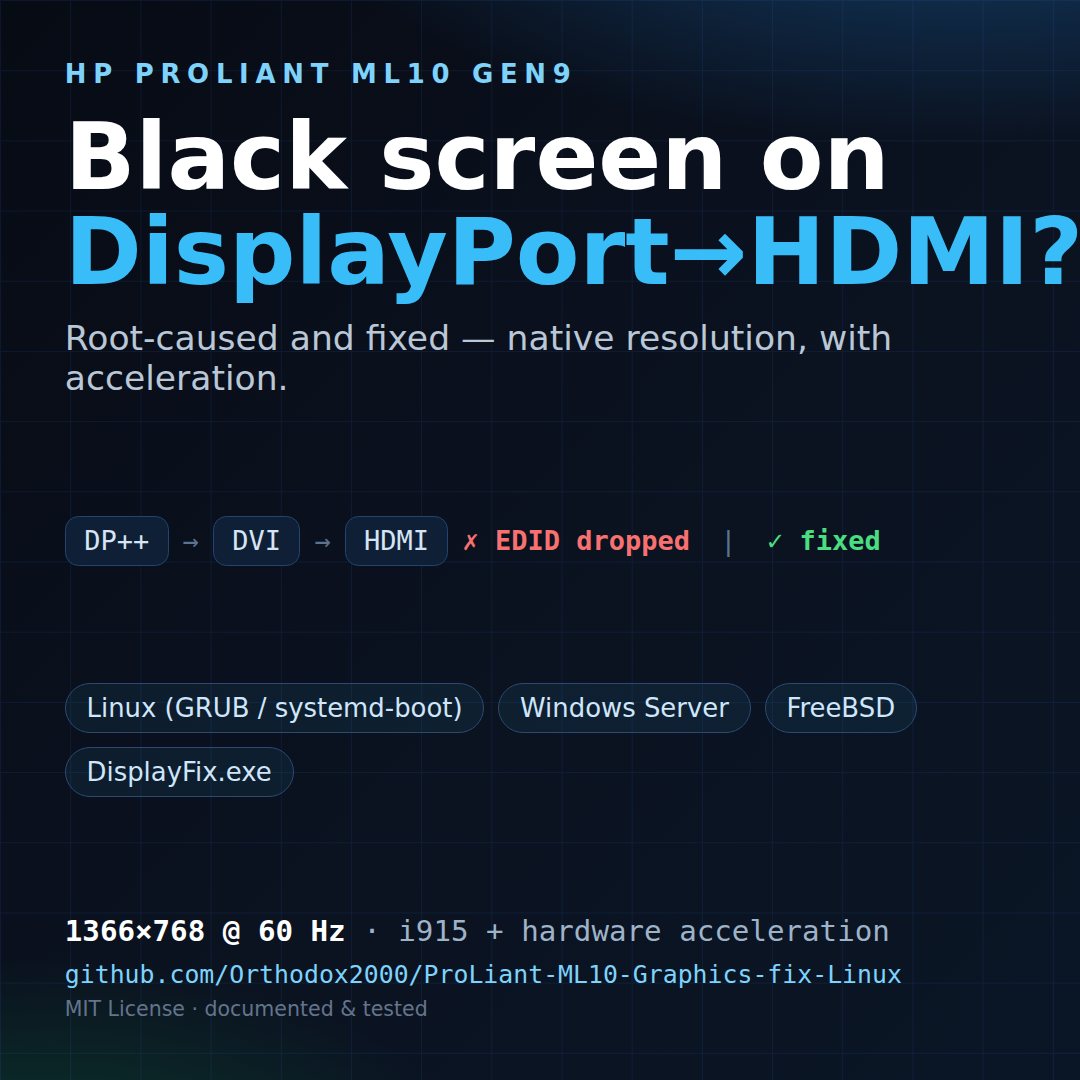
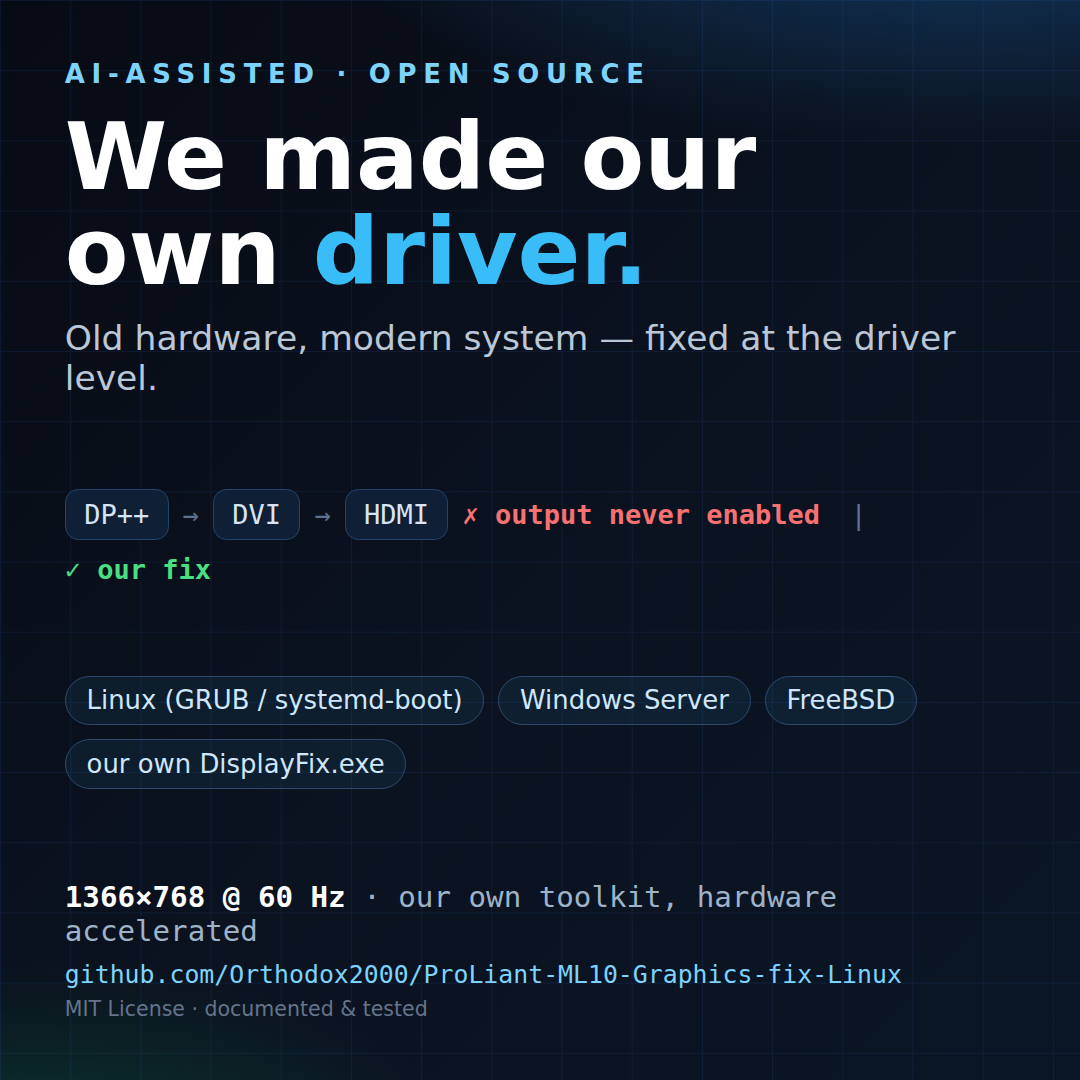
docs(social): reframe LinkedIn kit around AI-assisted DIY driver fix
- new angle: 'We made our own driver' (no vendor driver, symptom-first)
- drop CPU/GPU model as the primary identifier; lead with behaviour
- regenerate assets/linkedin/*.png with the new headline
- add full post structure, carousel outline, alt text and upload guide

diff --git a/docs/social/linkedin.md b/docs/social/linkedin.md
@@ -1,150 +1,207 @@
-# Social media kit — LinkedIn (and re-usable for X / Mastodon / Reddit)
+# Social media kit — LinkedIn (AI / “make your own driver” angle)
 
-Everything you need to announce the project. Copy/paste the text, upload the
-image, paste the repo link. Nothing else required.
+Everything you need to announce the project. Copy, paste, upload, done.
+Nothing else required.
 
-- **Landscape image (link preview / feed):** [`assets/linkedin/linkedin-1200x627.png`](../../assets/linkedin/linkedin-1200x627.png) — 1200×627
-- **Square image (feed post):** [`assets/linkedin/linkedin-1080x1080.png`](../../assets/linkedin/linkedin-1080x1080.png) — 1080×1080
+- **Landscape image (post / link preview):** [`assets/linkedin/linkedin-1200x627.png`](../../assets/linkedin/linkedin-1200x627.png) — 1200×627
+- **Square image (bigger feed visual):** [`assets/linkedin/linkedin-1080x1080.png`](../../assets/linkedin/linkedin-1080x1080.png) — 1080×1080
 - **Repo link:** https://github.com/Orthodox2000/ProLiant-ML10-Graphics-fix-Linux
 
-Regenerate the images any time with `make social` (or
-`bash scripts/doc/make-social.sh`).
+Regenerate the images any time with `make social`
+(or `bash scripts/doc/make-social.sh`).
+
+**The angle in one line:** *with AI you can now write your own driver-level fix,
+so old hardware keeps working on a modern OS — we did exactly that.*
 
 ---
 
-## TL;DR — what to upload and where
+## 1. Post structure (the anatomy)
 
-| Step | Where | What |
+Use this skeleton for any platform. Each block has a job.
+
+| # | Block | Job | Length |
+|---|---|---|---|
+| 1 | **Hook** | Stop the scroll. The AI/driver idea. | 1 line |
+| 2 | **Reframe** | Why this matters — “old hardware” vs disappearing vendor support. | 2–3 lines |
+| 3 | **Problem (by behaviour, not specs)** | Describe the *symptom*, never “CPU X is broken”. | 3–4 lines |
+| 4 | **The insight** | “This is a *driver* problem” — the aha that justifies building our own. | 3–4 lines |
+| 5 | **What we built** | Our own driver-level toolkit. Bullets + the key snippet. | 6–8 lines |
+| 6 | **Result** | One punchy line. Before → after. | 1 line |
+| 7 | **The bigger point** | Right-to-repair / e-waste / “we can now write the glue ourselves”. | 2–3 lines |
+| 8 | **CTA** | Repo link. | 1 line |
+| 9 | **Hashtags** | 8–12, mixed reach. | 1 line |
+
+**Formatting rules**
+- Lead with a bolded hook line; LinkedIn collapses after ~3 lines — make them count.
+- Short paragraphs (1–3 lines), single blank line between them.
+- **Bold** the section leads; 🔧🪟🐧📄 emoji as section markers (not decoration spam).
+- Put the link **once**, at the end. Put extra links in the first comment.
+- No CPU/GPU model as the identifier. Name the *behaviour* (“goes dark after POST”).
+
+---
+
+## 2. Post text (primary — the AI / DIY-driver angle)
+
+> 🧠 **With AI, you can now write your own drivers — and keep old hardware alive.**
+>
+> For years, “old hardware on a new system” meant hunting for a vendor driver that
+> no longer exists, or was never written for your OS. When support ends, you’re
+> stuck — unless you write the fix yourself.
+>
+> So we did.
+>
+> **The problem (by behaviour, not specs):**
+> A perfectly good small tower server. Add a monitor through a passive
+> **DP → DVI → HDMI** adapter chain, and it goes dark right after POST. The OS
+> loads, the machine is alive — there’s just no signal.
+>
+> The usual advice is `nomodeset`. It “works”… by giving up on the GPU entirely and
+> pinning you to a slow 1024×768 firmware framebuffer. That isn’t a fix, it’s
+> surrender.
+>
+> **The insight — this is a *driver* problem.**
+> The passive adapter **hides the monitor’s EDID**, so the graphics driver’s bus
+> read fails, it falls back to slow bit-banging, and the output is **never
+> enabled**. Second trap: two different connector names can be the *same* physical
+> port — try to force both and you get nothing.
+>
+> No vendor is going to ship a driver for a discontinued box on a modern kernel.
+> So we wrote the driver-level fix ourselves.
+>
+> **What we built — our own driver toolkit:**
+> 🔧 **Linux** — a portable toolkit for **GRUB *and* systemd-boot**:
+>   `status`, `detect`, `apply`, `discover`, `revert`. Non-destructive, timestamped
+>   backups, and a guaranteed recovery entry so you can never get stuck on a black
+>   screen. It does what a driver would — names the right connector, sets the exact
+>   mode, and switches off the power features that keep the output asleep:
+>
+> ```
+> video=<connector>:1366x768@60e i915.enable_dc=0 i915.enable_psr=0 i915.enable_fbc=0
+> ```
+>
+> 🪟 **Windows / Windows Server** — our own tooling, including a small
+>   **`DisplayFix.exe` we wrote and compiled** (source included; unsigned — audit it).
+> 🐧 **FreeBSD / TrueNAS / pfSense / Proxmox** — helpers for the same fix.
+> 📄 A **52-page write-up**, real screenshots, and full troubleshooting.
+>
+> **The result:**
+> The machine that showed *nothing* now runs at its **native 1366×768 @ 60 Hz,
+> hardware accelerated.** Old hardware, modern OS, working.
+>
+> **The real point:**
+> AI didn’t magically support the hardware — it let *us* do the driver-level work
+> that used to require a vendor: read the driver/kernel behaviour, find the exact
+> parameters, and ship a tool anyone can run. That’s the unlock. **Old hardware
+> gets a second life because we can now write the glue ourselves.** Less e-waste,
+> less “buy new”, more “make it work”.
+>
+> 🔗 Full write-up + toolkit:
+> https://github.com/Orthodox2000/ProLiant-ML10-Graphics-fix-Linux
+>
+> #AI #OpenSource #Linux #WindowsServer #FreeBSD #Drivers #Hardware #SysAdmin #Homelab #RightToRepair #Sustainability #DisplayPort
+
+---
+
+## 3. Short version (mobile / higher completion)
+
+> 🧠 **With AI, you can now make your own drivers — so old hardware keeps working
+> on a modern OS.**
+>
+> We had a perfectly good tower server that went **dark right after POST** through a
+> passive **DP → DVI → HDMI** chain. The adapter **hides the monitor’s EDID**, so the
+> graphics driver never enables the output. `nomodeset` only *pretends* to fix it
+> (1024×768, no acceleration).
+>
+> No vendor is shipping a driver for a discontinued box — so we wrote the fix
+> ourselves: a tiny toolkit that tells the driver the right connector, the exact
+> mode, and to stop sleeping.
+>
+> Result: **1366×768 @ 60 Hz, accelerated.** Old hardware, second life.
+>
+> Linux (GRUB + systemd-boot), Windows Server, and FreeBSD, with a safe recovery
+> entry so you can never get stuck. Full write-up + a 52-page PDF:
+>
+> 🔗 https://github.com/Orthodox2000/ProLiant-ML10-Graphics-fix-Linux
+>
+> #AI #OpenSource #Linux #Drivers #Hardware #SysAdmin #RightToRepair
+
+---
+
+## 4. Carousel format (optional — 6 slides)
+
+If you’d rather post a document/carousel, each slide maps to a block above:
+
+| Slide | Headline | Body |
 |---|---|---|
-| 1 | LinkedIn → **Start a post** ("Create post") | Paste the **Post text** below |
-| 2 | Same composer → **Add media / image icon** | Upload **`linkedin-1200x627.png`** (or the square for a bigger visual) |
-| 3 | In the post text, the repo URL | Leave it as plain text so LinkedIn builds a preview card (it uses the repo's **social preview** image automatically) |
-| 4 | After posting → **your first comment** | Paste the **First comment** text (keeps the post clean, boosts reach) |
-| 5 | (Optional) Your profile → **Add profile section → Featured → Add a link** | Repo link, title "HP ProLiant ML10 Gen9 display fix" |
-| 6 | (Optional) **Articles** → New article | Use **`docs/dist/ProLiant-ML10-Graphics-fix.pdf`** as the source |
-
-> ⚠ **Pick one image, not both.** If you paste the repo URL *and* upload an
-> image, LinkedIn shows your uploaded image (good). If you want the automatic
-> **link card** instead, just paste the URL and upload nothing.
+| 1 | **We made our own driver.** | AI-assisted. No vendor driver needed. |
+| 2 | **The problem** | A good server goes dark right after POST over DP → DVI → HDMI. |
+| 3 | **Why “nomodeset” isn’t a fix** | It abandons the GPU: 1024×768, no acceleration. Surrender. |
+| 4 | **The real cause** | The adapter hides the monitor’s EDID → the output is never enabled. |
+| 5 | **What we built** | Our own toolkit: Linux (GRUB/systemd-boot), Windows `.exe`, FreeBSD. |
+| 6 | **The result + link** | 1366×768 @ 60 Hz, accelerated. Repo link + QR. |
 
 ---
 
-## Post text (primary — "engineer, problem-solving" tone)
+## 5. First comment (post it yourself, right after publishing)
 
-> A brand new HPE ProLiant ML10 Gen9, and a monitor that just… stays black.
-> Here's the whole root cause — and the fix I wish existed last week. 🧵
+> For anyone with different gear: the method is the same — find the real connector
+> name (`ls /sys/class/drm`), set `video=<connector>:<mode>@60e`, and remember two
+> port names can be the *same* physical port. If nothing shows at all, boot with
+> `nomodeset` and run `scripts/linux/i915-display-fix.sh discover` — it prints the
+> exact line to add. `apply` always installs a recovery entry, so you can’t get stuck.
 >
-> **The setup:** ML10 Gen9, Intel HD Graphics P530 (Skylake), a 1366×768 monitor
-> on the motherboard's DisplayPort through a passive **DP → DVI → HDMI** chain.
->
-> **The symptom:** picture through BIOS/POST, then nothing. Adding `nomodeset`
-> "works" — but it just abandons the GPU and pins you to a 1024×768 firmware
-> framebuffer with zero acceleration. Not a fix.
->
-> **The root cause:** the passive adapter hides the monitor's **EDID**. The i915
-> driver's GMBUS read fails, falls back to slow GPIO bit-banging, and never
-> enables the output. There's a nasty second trap too: `DP-1` and `HDMI-A-1` are
-> the **same physical DP++ port** — try to force both and you get nothing.
->
-> **The fix:** drop `nomodeset`, hand the kernel the exact connector + mode, and
-> switch off a few Skylake power features:
->
-> ```
-> video=HDMI-A-1:1366x768@60e i915.enable_dc=0 \
-> i915.enable_psr=0 i915.enable_fbc=0 i915.enable_dp_mst=0
-> ```
->
-> **The result:** 1366×768 @ 60 Hz, i915 loaded, hardware accelerated. The screen
-> it was supposed to have all along.
->
-> I turned the whole investigation into a documented, reusable project:
->
-> 🔧 Portable **Linux toolkit** (GRUB **and** systemd-boot): `status`, `detect`,
->   `apply`, `discover`, `revert` — non-destructive, timestamped backups, and a
->   guaranteed `nomodeset` **recovery entry** so you can never end up with a
->   black screen you can't undo.
-> 🪟 **Windows + Windows Server** guide and tooling, including a tiny
->   **DisplayFix.exe** (source included, unsigned — audit and rebuild it if you
->   prefer).
-> 🐧 **FreeBSD** helper, plus hardware / cable / adapter guidance (active vs
->   passive DP adapters, KVMs, alternate outputs).
-> 📄 A **52-page PDF**, real terminal screenshots, per-distro notes, and full
->   troubleshooting.
->
-> If you've fought a "DP works on paper, black on screen" server, this one's for
-> you. Feedback, other boards/distros, and PRs welcome.
->
-> 🔗 https://github.com/Orthodox2000/ProLiant-ML10-Graphics-fix-Linux
->
-> #Linux #WindowsServer #Hardware #SysAdmin #OpenSource #Intel #HPE #ProLiant #i915 #Troubleshooting #DisplayPort
+> (Windows Server folks: `docs/06-windows-server.md`. Cable/adapter questions:
+> `docs/08-hardware-cables-adapters.md`.)
 
 ---
 
-## Post text (short — better for mobile / higher completion rate)
+## 6. Alt text (paste into the image’s “alt text” field)
 
-> Spent longer than I'd like on a **black screen** from a brand-new HPE ProLiant
-> ML10 Gen9 over DisplayPort→HDMI. The cause wasn't the monitor or the cable — a
-> **passive DP→DVI→HDMI adapter hides the monitor's EDID**, so the Intel i915
-> driver never enables the output. `nomodeset` only *pretends* to fix it (1024×768,
-> no acceleration).
->
-> The real fix, on the kernel command line:
->
-> ```
-> video=HDMI-A-1:1366x768@60e i915.enable_dc=0 i915.enable_psr=0 i915.enable_fbc=0
-> ```
->
-> Result: **1366×768 @ 60 Hz, accelerated.**
->
-> I wrote the whole thing up — Linux toolkit (GRUB + systemd-boot, with a safe
-> recovery entry), Windows Server tools, FreeBSD, cable/adapter guidance, and a
-> 52-page PDF.
->
-> 🔗 https://github.com/Orthodox2000/ProLiant-ML10-Graphics-fix-Linux
->
-> #Linux #WindowsServer #SysAdmin #Hardware #OpenSource #i915 #ProLiant
+> Dark title card reading “We made our own driver.” with the subtitle “Old hardware,
+> modern system — fixed at the driver level”, a signal chain DP++ → DVI → HDMI
+> labelled “output never enabled” then “our fix”, chips for Linux, Windows Server,
+> FreeBSD and our own DisplayFix.exe, and a footer “1366×768 @ 60 Hz · our own
+> toolkit, hardware accelerated”.
 
 ---
 
-## First comment (post this yourself, right after publishing)
+## 7. What to upload and where
 
-> For anyone who lands here with a different box: the logic is the same — find
-> the real connector name (`ls /sys/class/drm`), set `video=<connector>:<mode>@60e`,
-> and remember that `DP-1` and `HDMI-A-1` can be the *same* physical port. If
-> nothing shows up at all, boot with `nomodeset` and run
-> `scripts/linux/i915-display-fix.sh discover` — it prints the exact line to add.
-> The `apply` command always installs a recovery entry, so you can't get stuck.
+| Step | Where (LinkedIn) | What |
+|---|---|---|
+| 1 | Home → **Start a post** | Paste **§2 Post text** |
+| 2 | Same composer → **🖼 image icon** | Upload **`linkedin-1200x627.png`** (or the square) |
+| 3 | In the text, at the end | Paste the repo URL as **plain text** |
+| 4 | Right after publishing → **comment on your own post** | Paste **§5 First comment** |
+| 5 | Profile → **Add profile section → Featured → Add a link** | Repo URL, title “Making our own driver for old hardware” |
+| 6 | Optional: **Write article** | Use **`docs/dist/ProLiant-ML10-Graphics-fix.pdf`** as the source |
+
+> ⚠ **Pick one:** if you upload an image **and** paste the URL, LinkedIn shows your
+> image. If you want the automatic **link card** (which uses the repo’s social
+> preview), paste only the URL and upload nothing. Don’t do both.
 
 ---
 
-## Alt text (accessibility — paste into the image's "alt text" field)
-
-> Dark title card reading "HP ProLiant ML10 Gen9 — Black screen on DisplayPort→HDMI?" with a signal chain DP++ → DVI → HDMI, the note "EDID dropped / fixed", chips for Linux, Windows Server, FreeBSD and DisplayFix.exe, and the line "1366×768 @ 60 Hz · i915 + hardware acceleration".
-
----
-
-## Re-using on other platforms
+## 8. Re-using on other platforms
 
 | Platform | Image | Notes |
 |---|---|---|
-| **X / Twitter** | `linkedin-1200x627.png` | Fits the 16:9-ish card; add the repo link. |
-| **Mastodon** | `linkedin-1200x627.png` | Same card geometry. |
-| **Reddit** (`r/linux`, `r/sysadmin`, `r/homelab`, `r/HomeServer`) | `linkedin-1080x1080.png` | Use the **short** text as the title, the long text as the body; link in the body to avoid being flagged as a link post. |
-| **Hacker News** | none | Text only; use the short text minus hashtags. |
-| **Server The Home / forums** | `linkedin-1200x627.png` | Paste the long text; BBCode image link if needed. |
+| **X / Twitter** | `linkedin-1200x627.png` | Fits the card; link at the end. |
+| **Mastodon** | `linkedin-1200x627.png` | Same geometry. |
+| **Reddit** (`r/linux`, `r/sysadmin`, `r/homelab`, `r/HomeServer`, `r/linuxhardware`) | `linkedin-1080x1080.png` | Short text as **title**, long text as **body**, link in the body (not a link post). |
+| **Hacker News** | none | Text only; drop the emoji and hashtags. |
+| **ServeTheHome / forums** | `linkedin-1200x627.png` | Paste the long text. |
 
 ### Reddit title suggestions
-
-- `Fixed the black-screen/DP→HDMI issue on an HP ProLiant ML10 Gen9 (Intel P530 / i915) — full write-up + toolkit`
-- `PSA: a passive DP→DVI→HDMI adapter can hide your monitor's EDID and leave a Skylake iGPU output dark`
+- `We wrote our own driver-level fix so a discontinued server runs its monitor on a modern OS`
+- `AI-assisted driver work: fixing a black-screen DP→DVI→HDMI output with our own toolkit`
 
 ---
 
-## Suggested posting rhythm
+## 9. Posting rhythm
 
-1. **Day 0** — the primary post + landscape image.
-2. **Day 0 (+1h)** — first comment (above).
-3. **Day 2–3** — a short "update" post with the **square** image and one concrete
-   lesson (e.g. the `DP-1` / `HDMI-A-1` same-port trap) to catch a second wave.
-4. Keep replies technical and specific; link to the exact doc file
-   (`docs/09-troubleshooting.md`, `docs/06-windows-server.md`) when relevant.
+1. **Day 0** — primary post + landscape image.
+2. **Day 0 (+1h)** — first comment.
+3. **Day 2–3** — a short follow-up with the **square** image and one concrete
+   lesson (e.g. “two port names, one physical port”) for a second wave.
+4. Keep replies technical and specific; link the exact doc file when relevant.
